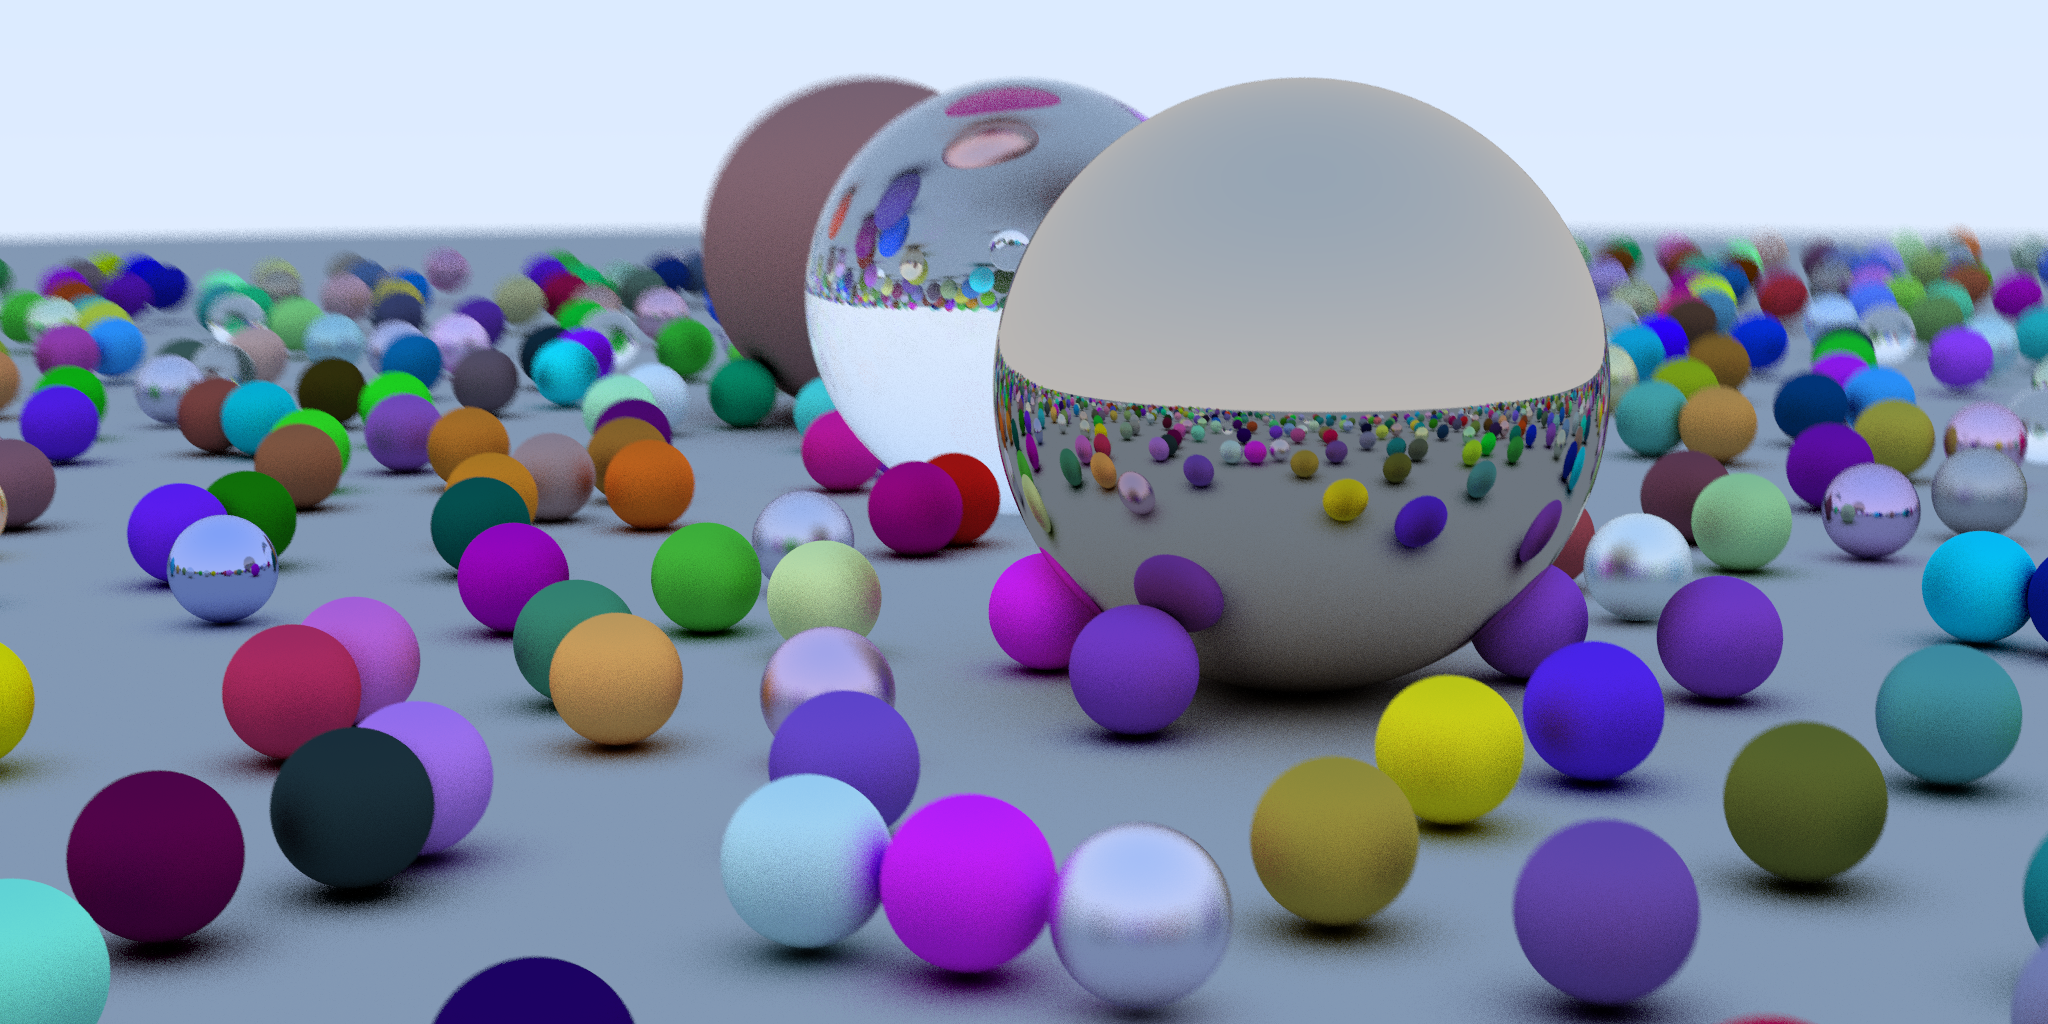
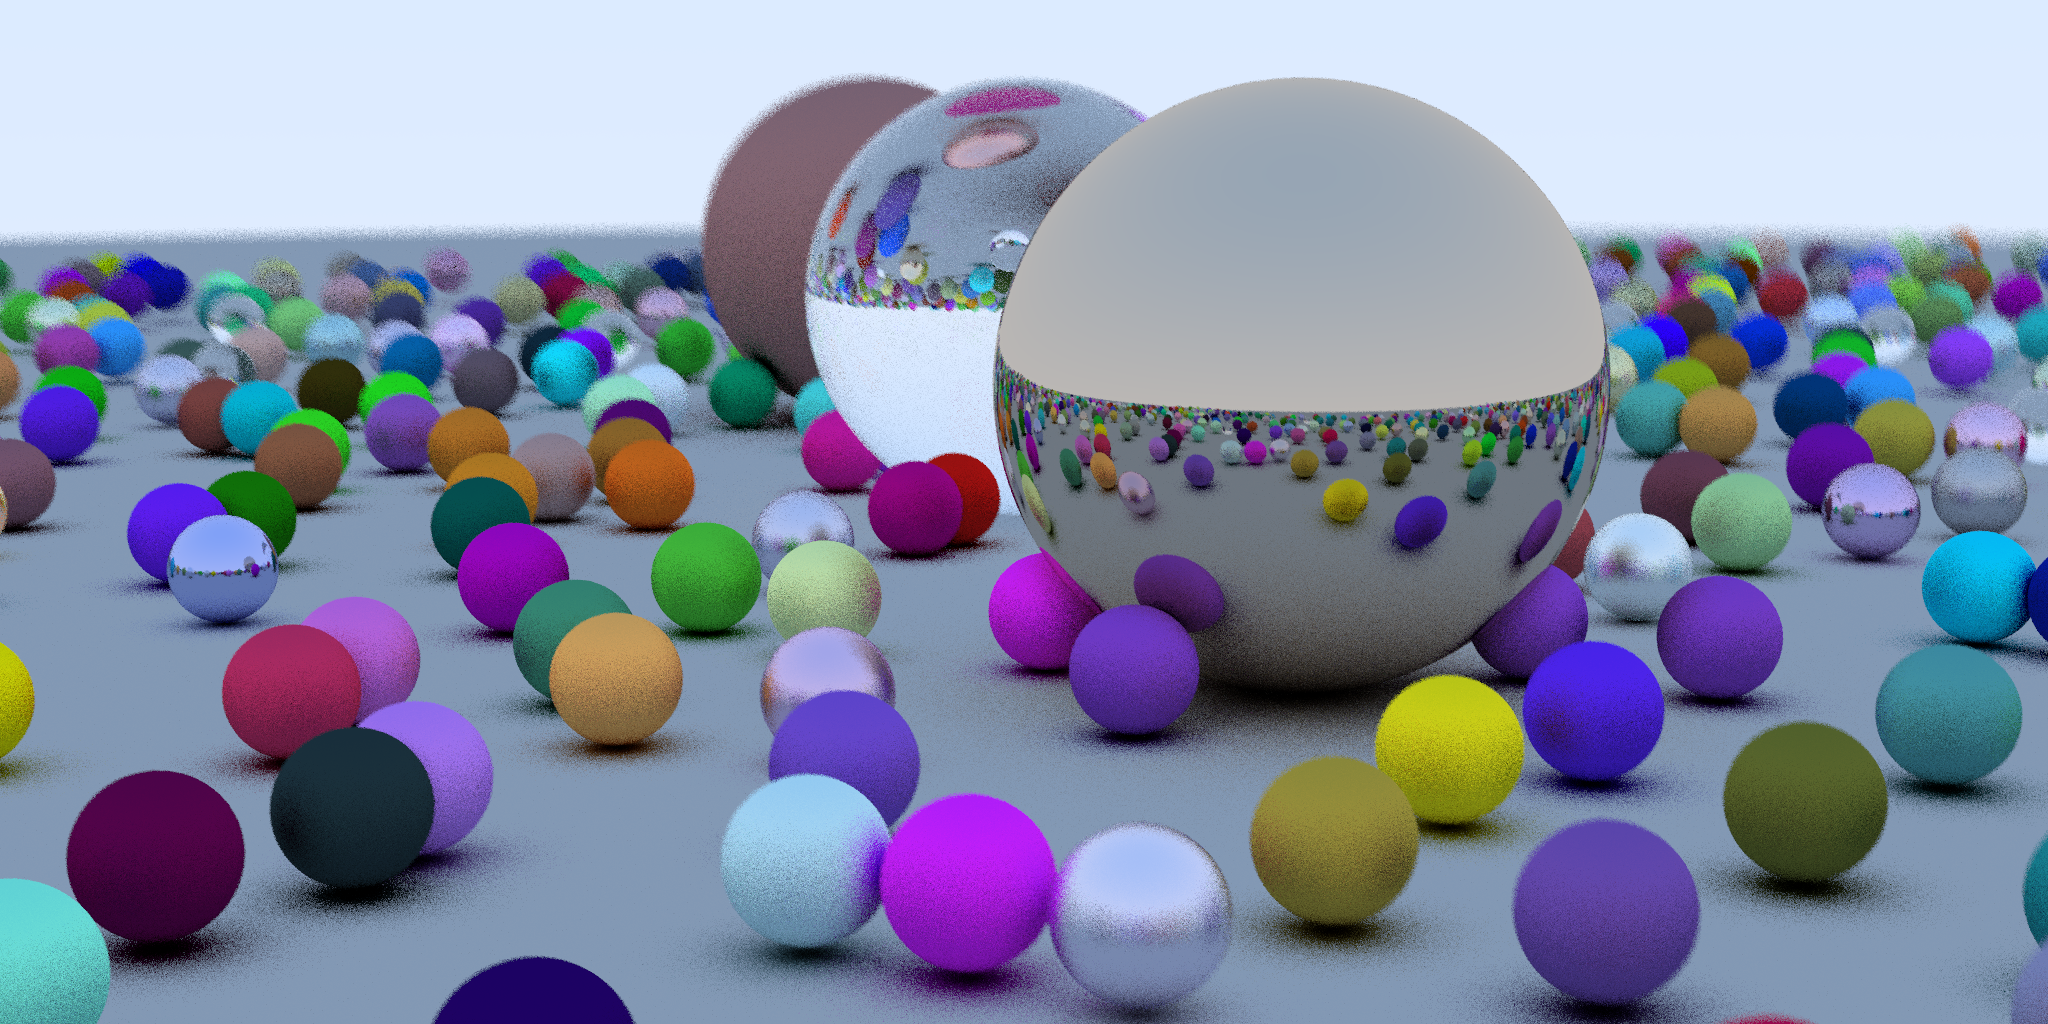
Update perf

diff --git a/main_lockless_queue.py b/main_lockless_queue.py
@@ -19,37 +19,41 @@ class Queue:
     def __init__(self, struct, size) -> None:
         self.struct_field = struct.field()
         self.struct_field_lock = ti.field(dtype=ti.i32)
-        ti.root.dense(ti.i, (size)).place(self.struct_field, self.struct_field_lock)
+        ti.root.dense(ti.i, (size)).place(self.struct_field)
+        ti.root.dense(ti.i, (size)).place(self.struct_field_lock)
         self.read_idx = ti.field(dtype=ti.i32, shape=())
         self.write_idx = ti.field(dtype=ti.i32, shape=())
+        self.in_flight_count = ti.field(dtype=ti.i32, shape=())
         self.size = size
+        self.fault = ti.field(dtype=ti.i32, shape=())
         
     @ti.func
     def push(self, struct : ti.template()):
         idx = ti.atomic_add(self.write_idx[()], 1)
-        while True:
-            queue_read_idx = ti.atomic_add(self.read_idx[()], 0)
-            if idx - queue_read_idx <= self.size:
-                break
         self.struct_field[idx % self.size] = struct
+        if self.struct_field_lock[idx % self.size] > 0:
+            self.fault[()] = 1
         self.struct_field_lock[idx % self.size] = 1
         return idx
 
     @ti.kernel
+    def clear_struct_field(self):
+        for i in self.struct_field_lock:
+            self.struct_field_lock[i] = 0
+
     def clear(self):
         self.read_idx[()] = 0
         self.write_idx[()] = 0
+        self.in_flight_count[()] = 0
+        self.clear_struct_field()
 
     @ti.func
-    def pop(self):
+    def reserve(self):
         idx = ti.atomic_add(self.read_idx[()], 1)
         return idx
 
     @ti.func
-    def get(self, idx : ti.i32) -> ti.template():
-        while True:
-            if self.struct_field_lock[idx % self.size] == 1:
-                break
+    def dequeue(self, idx : ti.i32) -> ti.template():
         s = self.struct_field[idx % self.size]
         self.struct_field_lock[idx % self.size] = 0
         return s
@@ -61,6 +65,18 @@ class Queue:
     @ti.func
     def get_write_idx(self) -> ti.i32:
         return ti.atomic_add(self.write_idx[()], 0)
+
+    @ti.func
+    def has_data_arrived(self, idx):
+        return self.struct_field_lock[idx % self.size] > 0
+
+    @ti.func
+    def increment_in_flight(self):
+        self.in_flight_count[()] += 1
+
+    @ti.func
+    def decrement_in_flight(self):
+        self.in_flight_count[()] -= 1
 
 @ti.func
 def get_background(dir):
@@ -76,7 +92,7 @@ if __name__ == '__main__':
     # image data
     aspect_ratio = 4.0 / 2.0
     image_width = 2048
-    samples_per_pixel = 32
+    samples_per_pixel = 8
     max_depth = 32
     image_height = int(image_width / aspect_ratio)
     rays = ray.Rays(image_width, image_height)
@@ -180,63 +196,82 @@ if __name__ == '__main__':
                 if miss or last bounce sample backgound
             return pixels that hit max samples
         '''
-        for i in range(256 * 6 * 12):
+        ti.block_dim(128)
+        for i in range(128 * 12 * 32):
+            slot = -1
             while True:
-                queue_idx = ray_queue.pop()
-                while True:
-                    queue_write_idx = ray_queue.get_write_idx()
-                    if queue_idx < queue_write_idx or num_completed[()] >= num_pixels:
-                        break
-                ray = ray_queue.get(queue_idx)
-                
+                # Reserve a slot on the queue
+                if slot < 0:
+                    slot = ray_queue.reserve()
+
                 if num_completed[()] >= num_pixels:
                     break
 
+                if not ray_queue.has_data_arrived(slot):
+                    continue
+
+                ray = ray_queue.dequeue(slot)
+                slot = -1
+
+                ray_queue.increment_in_flight()
+
                 # gen sample
                 ray_org, ray_dir, depth, pdf, x, y = ray.org, ray.dir, ray.depth, ray.pdf, ray.x, ray.y
+                depth -= 1
 
                 # intersect
                 hit, p, n, front_facing, index = world.hit_all(
                     ray_org, ray_dir)
-                depth -= 1
-                # rays.depth[x, y] = depth
+
                 if hit:
                     reflected, out_origin, out_direction, attenuation = world.materials.scatter(
                         index, ray_dir, p, n, front_facing)
-                    #rays.set(x, y, out_origin, out_direction, depth,
-                    #         pdf * attenuation)
                     next_ray = ray_sample(org = out_origin, dir = out_direction, depth = depth, x = x, y = y, pdf = pdf * attenuation)
                     ray_queue.push(next_ray)
                     ray_dir = out_direction
 
                 if not hit or depth == 0:
                     pixels[x, y] += pdf * get_background(ray_dir)
-                    if ti.atomic_add(sample_count[x, y], 1) >= samples_per_pixel - 1:
-                        num_completed[()] += 1
-                    else:
+                    sample_count[x, y] += 1
+                    # num_completed[()] += 1
+                    if sample_count[x, y] < samples_per_pixel:
                         u = (x + ti.random()) / (image_width - 1)
                         v = (y + ti.random()) / (image_height - 1)
-                        depth = max_depth
-                        pdf = start_attenuation
                         ray_org, ray_dir = cam.get_ray(u, v)
-                        # rays.set(x, y, ray_org, ray_dir, depth, pdf)
-                        next_ray = ray_sample(org = ray_org, dir = ray_dir, depth = depth, x = x, y = y, pdf = pdf)
+                        next_ray = ray_sample(org = ray_org, dir = ray_dir, depth = max_depth, x = x, y = y, pdf = start_attenuation)
                         ray_queue.push(next_ray)
+                    else:
+                        num_completed[()] += 1
+
+                ray_queue.decrement_in_flight()
 
     num_pixels = image_width * image_height
 
     num_to_do = wavefront_initial()
     wavefront_queue()
     finish()
+    ridx = ray_queue.read_idx[()]
+    widx = ray_queue.write_idx[()]
+    print(ridx, widx, ray_queue.in_flight_count[()], ray_queue.fault[()])
     ray_queue.clear()
     num_completed[()] = 0
+    ti.imwrite(pixels.to_numpy(), 'out_lockless_q.png')
     ti.sync()
 
-    print('starting big wavefront')
-    t = time()
-    num_to_do = wavefront_initial()
-    wavefront_queue()
-    finish()
-    ti.sync()
-    print(time() - t)
-    ti.imwrite(pixels.to_numpy(), 'out_lockless_q.png')
+    res = (512, 512)
+    window = ti.ui.Window("Taichi MLS-MPM-128", res=res, vsync=False)
+
+    while True:
+        ray_queue.clear()
+        num_completed[()] = 0
+        print('starting big wavefront')
+        t = time()
+        num_to_do = wavefront_initial()
+        wavefront_queue()
+        ridx = ray_queue.read_idx[()]
+        widx = ray_queue.write_idx[()]
+        print(ridx, widx, ray_queue.in_flight_count[()], ray_queue.fault[()])
+        finish()
+        ti.sync()
+        print(time() - t)
+        window.show()

diff --git a/main_mega.py b/main_mega.py
@@ -29,7 +29,7 @@ if __name__ == '__main__':
     # image data
     aspect_ratio = 4.0 / 2.0
     image_width = 2048
-    samples_per_pixel = 32
+    samples_per_pixel = 8
     max_depth = 32
     image_height = int(image_width / aspect_ratio)
     rays = ray.Rays(image_width, image_height)
@@ -145,14 +145,20 @@ if __name__ == '__main__':
 
     num_pixels = image_width * image_height
 
+    res = (512, 512)
+    window = ti.ui.Window("Taichi MLS-MPM-128", res=res, vsync=False)
+
     num_to_do = wavefront_initial()
     wavefront_queue()
-    ti.sync()
+    ti.imwrite(pixels.to_numpy(), 'out_mega.png')
 
     print('starting big wavefront')
-    t = time()
-    num_to_do = wavefront_initial()
-    wavefront_queue()
-    ti.sync()
-    print(time() - t)
-    ti.imwrite(pixels.to_numpy(), 'out_mega.png')
+    window.show()
+
+    while True:
+        t = time()
+        num_to_do = wavefront_initial()
+        wavefront_queue()
+        ti.sync()
+        print(time() - t)
+        window.show()

diff --git a/main_naive.py b/main_naive.py
@@ -29,7 +29,7 @@ if __name__ == '__main__':
     # image data
     aspect_ratio = 4.0 / 2.0
     image_width = 2048
-    samples_per_pixel = 32
+    samples_per_pixel = 8
     max_depth = 32
     image_height = int(image_width / aspect_ratio)
     rays = ray.Rays(image_width, image_height)
@@ -147,14 +147,22 @@ if __name__ == '__main__':
 
     num_pixels = image_width * image_height
 
-    num_to_do = wavefront_initial()
-    wavefront_queue()
-    ti.sync()
+    res = (512, 512)
+    window = ti.ui.Window("Taichi MLS-MPM-128", res=res, vsync=False)
 
-    print('starting big wavefront')
-    t = time()
     num_to_do = wavefront_initial()
     wavefront_queue()
     ti.sync()
-    print(time() - t)
     ti.imwrite(pixels.to_numpy(), 'out_naive.png')
+
+    window.show()
+
+    while True:
+        print('starting big wavefront')
+        t = time()
+        num_to_do = wavefront_initial()
+        wavefront_queue()
+        ti.sync()
+        print(time() - t)
+
+        window.show()

diff --git a/main_bitmasked.py b/main_bitmasked.py
@@ -160,14 +160,19 @@ if __name__ == '__main__':
     while num_to_do > 0:
         # print(num_to_do)
         num_to_do = wavefront_queue()
-
-    print('starting big wavefront')
-    t = time()
-    num_to_do = wavefront_initial()
-    while num_to_do > 0:
-        # print(num_to_do)
-        num_to_do = wavefront_queue()
-    finish()
-    ti.sync()
-    print(time() - t)
     ti.imwrite(pixels.to_numpy(), 'out_bitmasked.png')
+
+    res = (512, 512)
+    window = ti.ui.Window("Taichi MLS-MPM-128", res=res, vsync=False)
+
+    while True:
+        print('starting big wavefront')
+        t = time()
+        num_to_do = wavefront_initial()
+        while num_to_do > 0:
+            # print(num_to_do)
+            num_to_do = wavefront_queue()
+        finish()
+        ti.sync()
+        print(time() - t)
+        window.show()

diff --git a/Perf.md b/Perf.md
@@ -27,11 +27,6 @@ Lockless = main_lockless_queue.py (with bugs)
 | Bitmasked | N/A                 | 0.07606911659240723  | 0.05905389785766601 |
 | Bitmasked | N/A                 | 0.07306623458862305  | 0.05805253982543945 |
 | Bitmasked | N/A                 | 0.07106423377990723  | 0.05905318260192871 |
-| Queue     | N/A                 |    |   |
-| Queue     | N/A                 |    |   |
-| Queue     | N/A                 |    |   |
-| Queue     | N/A                 |    |   |
-| Queue     | N/A                 |    |   |
 | Lockless  | N/A                 | 0.015013456344604492 | 0.01701521873474121 |
 | Lockless  | N/A                 | 0.015013456344604492 | 0.01401257514953613 |
 | Lockless  | N/A                 | 0.015013456344604492 | 0.01401257514953613 |
@@ -57,16 +52,11 @@ Lockless = main_lockless_queue.py (with bugs)
 | Bitmasked | N/A                 | 0.18407320976257324  | 0.3902590274810791  |
 | Bitmasked | N/A                 | 0.18324613571166992  | 0.4033670425415039  |
 | Bitmasked | N/A                 | 0.16915369033813477  | 0.41938090324401855 |
-| Queue     | N/A                 |    |   |
-| Queue     | N/A                 |    |   |
-| Queue     | N/A                 |    |   |
-| Queue     | N/A                 |    |   |
-| Queue     | N/A                 |    |   |
-| Lockless  | N/A                 | 0.13211917877197266  | 0.13188624382019043 |
-| Lockless  | N/A                 | 0.1329021453857422   | 0.12999677658081055 |
-| Lockless  | N/A                 | 0.12807559967041016  | 0.14413046836853027 |
-| Lockless  | N/A                 | 0.12693166732788086  | 0.13312053680419922 |
-| Lockless  | N/A                 | 0.12911748886108398  | 0.13211870193481445 |
+| Lockless  | N/A                 | 0.13211917877197266  | 0.07306718826293945 |
+| Lockless  | N/A                 | 0.1329021453857422   | 0.07306647300720215 |
+| Lockless  | N/A                 | 0.12807559967041016  | 0.07406806945800781 |
+| Lockless  | N/A                 | 0.12693166732788086  | 0.07206511497497559 |
+| Lockless  | N/A                 | 0.12911748886108398  | 0.07106494903564453 |
 
 `num_samples=32`
 
@@ -87,15 +77,10 @@ Lockless = main_lockless_queue.py (with bugs)
 | Bitmasked | N/A                 | 0.4855375289916992   | 1.4983632564544678  |
 | Bitmasked | N/A                 | 0.47142791748046875  | 1.3754594326019287  |
 | Bitmasked | N/A                 | 0.48314523696899414  | 1.446315050125122   |
-| Queue     | N/A                 |    |   |
-| Queue     | N/A                 |    |   |
-| Queue     | N/A                 |    |   |
-| Queue     | N/A                 |    |   |
-| Queue     | N/A                 |    |   |
-| Lockless  | N/A                 | 0.6307239532470703   | 0.546820878982544   |
-| Lockless  | N/A                 | 0.6401793956756592   | 0.5449998378753662  |
-| Lockless  | N/A                 | 0.6425991058349609   | 0.5454964637756348  |
-| Lockless  | N/A                 | 0.6311607360839844   | 0.5459222793579102  |
-| Lockless  | N/A                 | 0.6716098785400391   | 0.5444927215576172  |
+| Lockless  | N/A                 | 0.5765235424041748   | 0.3072788715362549  |
+| Lockless  | N/A                 | 0.5745217800140381   | 0.3112833499908447  |
+| Lockless  | N/A                 | 0.5745222568511963   | 0.31328439712524414 |
+| Lockless  | N/A                 | 0.5735213756561279   | 0.3122849464416504  |
+| Lockless  | N/A                 | 0.5795261859893799   | 0.3112833499908447  |
 
 
